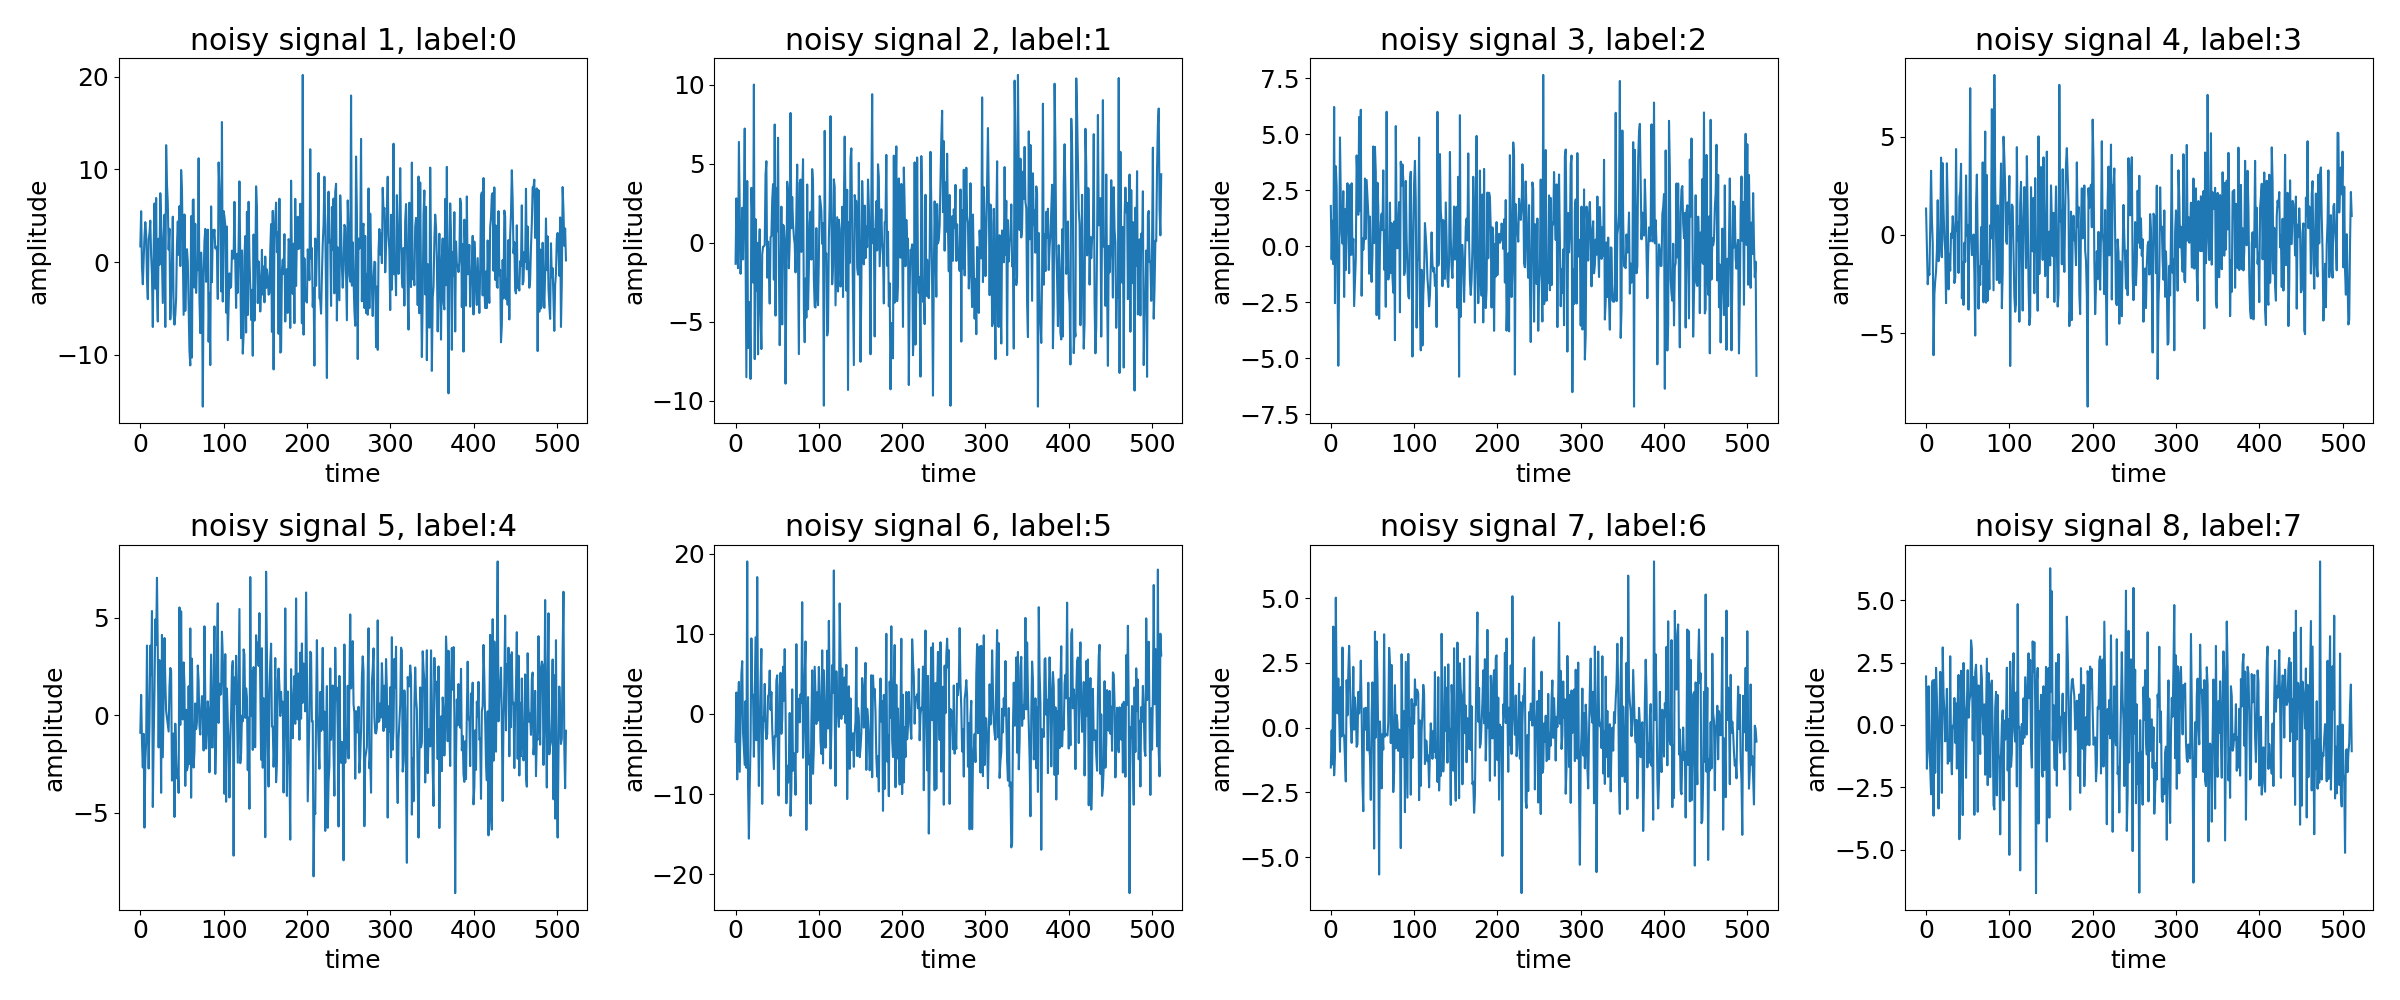
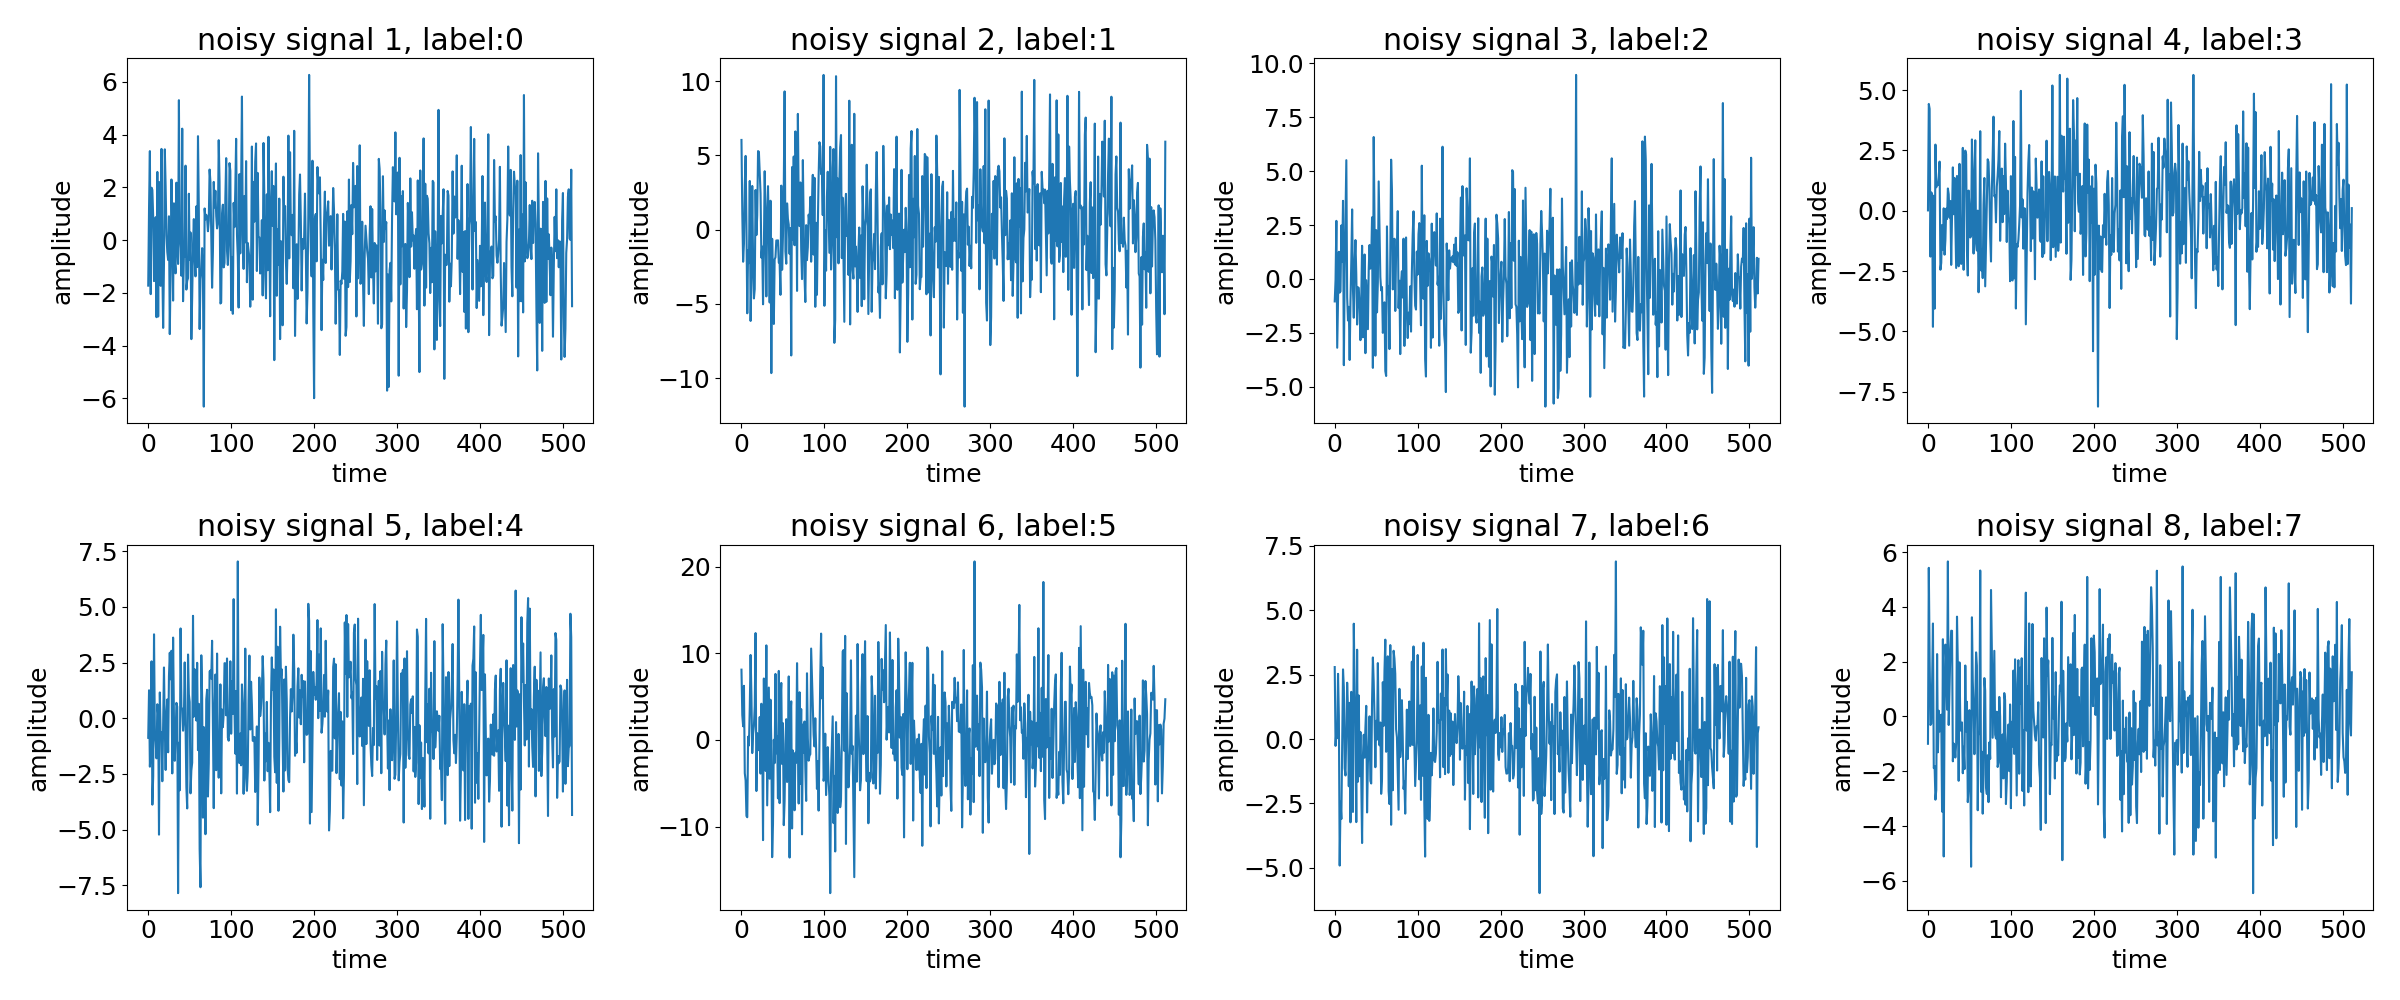
更新一版，从该版本开始修改代码

diff --git a/train.py b/train.py
@@ -647,13 +647,15 @@ if __name__ == '__main__':
         log_dirs=['./run/0516dn/mini', './run/0516dn/small', './run/0516dn/medium', './run/0516dn/big'],
         denoising_properties=d_p, ds_config=dataset_config, batch_size=batch_size
     )  # 训练分类模型， 输入为带噪声的信号经过sd_ddim去噪后的信号
-    # d_p['denoising method'] = 'kalman'
-    # train_classification(
-    #     log_dirs=['./run/0516kal/mini', './run/0516kal/small', './run/0516kal/medium', './run/0516kal/big']
-    #     , denoising_properties=d_p, ds_config=dataset_config, batch_size=batch_size
-    # )   # 训练分类模型， 输入为带噪声的信号经过kalman去噪后的信号
-    # d_p['denoising method'] = 'wavelet'
-    # train_classification(
-    #     log_dirs=['./run/0516wvlt/mini', './run/0516wvlt/small', './run/0516wvlt/medium', './run/0516wvlt/big']
-    #     , denoising_properties=d_p, ds_config=dataset_config, batch_size=batch_size
-    # )   # 训练分类模型， 输入为带噪声的信号经过wavelet去噪后的信号
+
+    d_p['denoising method'] = 'kalman'
+    train_classification(
+        log_dirs=['./run/0516kal/mini', './run/0516kal/small', './run/0516kal/medium', './run/0516kal/big']
+        , denoising_properties=d_p, ds_config=dataset_config, batch_size=batch_size
+    )   # 训练分类模型， 输入为带噪声的信号经过kalman去噪后的信号
+
+    d_p['denoising method'] = 'wavelet'
+    train_classification(
+        log_dirs=['./run/0516wvlt/mini', './run/0516wvlt/small', './run/0516wvlt/medium', './run/0516wvlt/big']
+        , denoising_properties=d_p, ds_config=dataset_config, batch_size=batch_size
+    )   # 训练分类模型， 输入为带噪声的信号经过wavelet去噪后的信号
